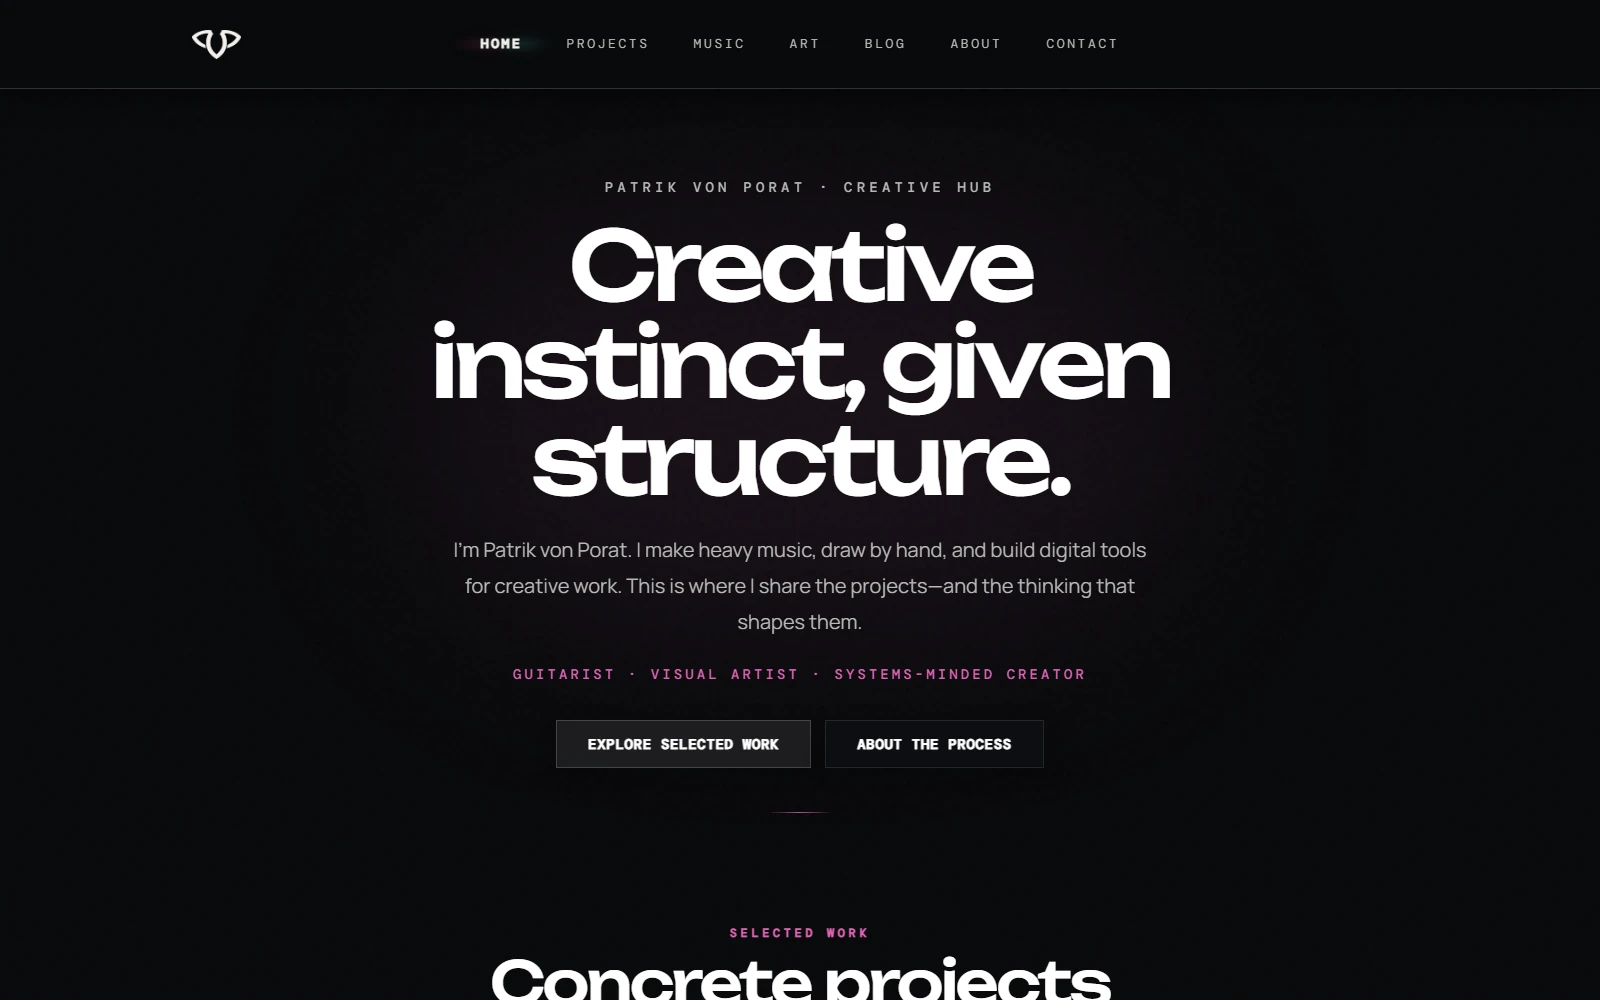
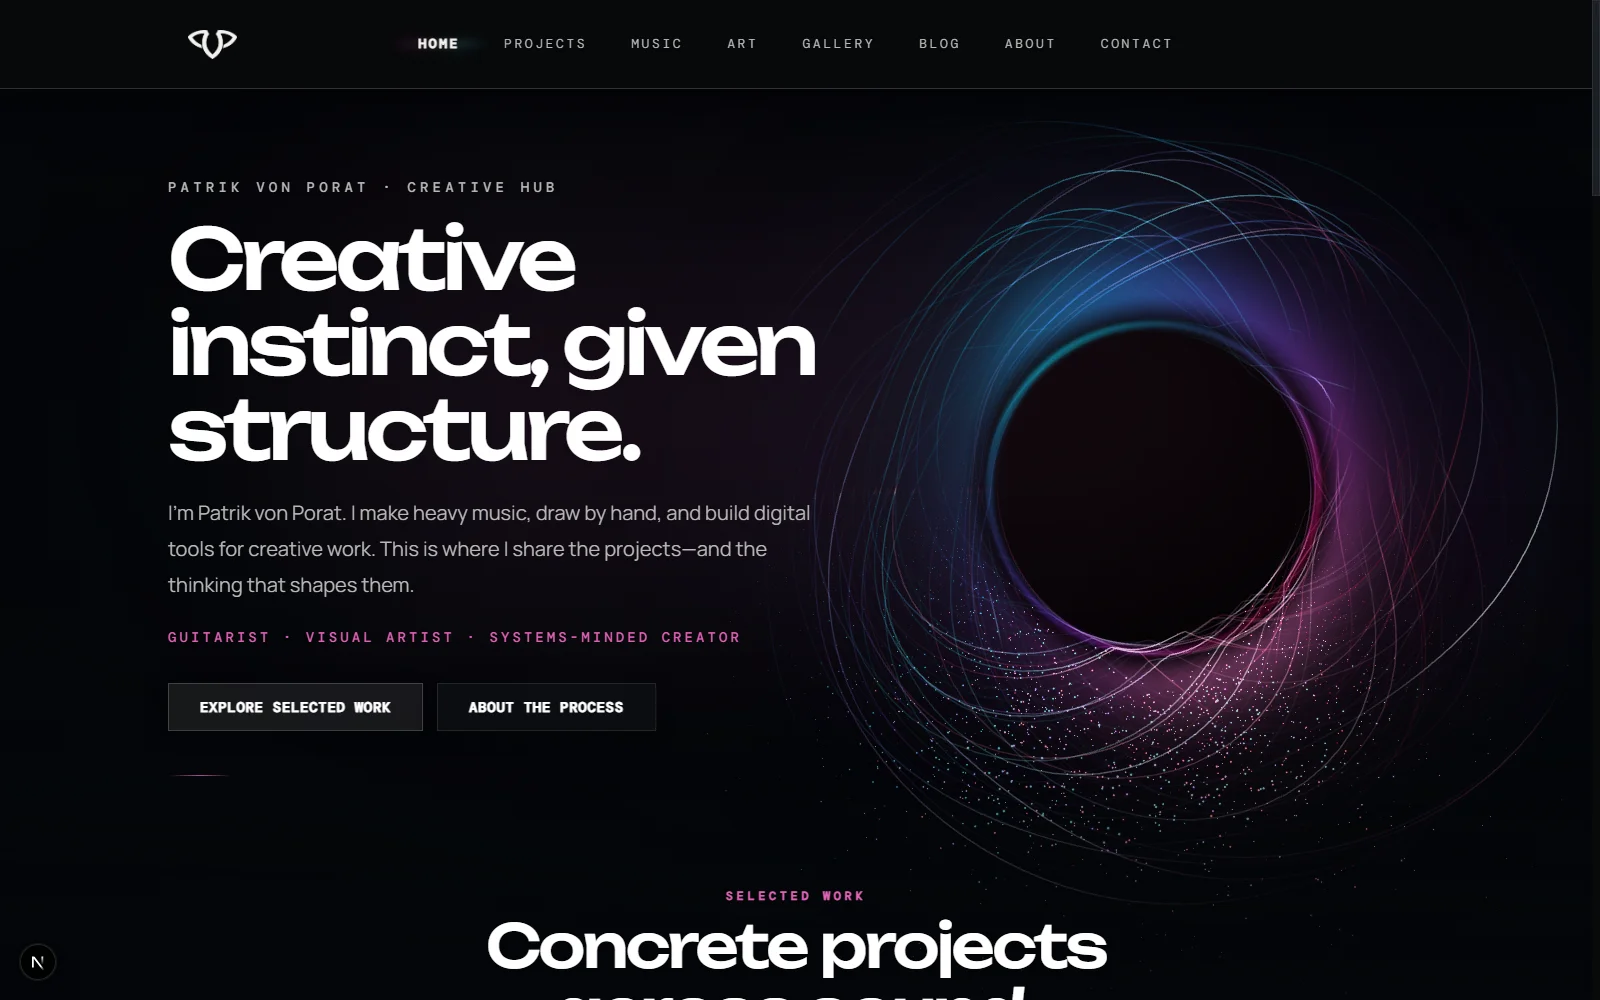
Update Projects page: refresh DMAIC Companion & vonporat.com showcases, streamline broader practice cards

diff --git a/src/app/(app)/projects/page.js b/src/app/(app)/projects/page.js
@@ -75,29 +75,6 @@ export default function Projects() {
 
   const supportingProjects = [
     {
-      id: 'visual-practice',
-      title: 'Visual Practice',
-      category: 'DRAWING · TATTOO PRACTICE · PHYSICAL CRAFT',
-      status: 'ONGOING PRACTICE',
-      statusType: 'active',
-      intro: 'An ongoing exploration of observation, material and controlled technique across traditional and physical forms.',
-      scopeLabel: 'Scope',
-      scopeItems: [
-        'Graphite and charcoal studies',
-        'Tattoo linework and shading practice',
-        'Miniatures and physical models',
-        'Selected digital experimentation'
-      ],
-      role: null,
-      evidence: 'Studies, experiments and finished work documenting continued development across different materials.',
-      cta: 'View Visual Practice',
-      link: '/art',
-      image: '/images/art/drawings/eye-study.webp',
-      imageAlt: 'Visual practice traditional graphite drawing study',
-      accent: 'purple',
-      isExternal: false
-    },
-    {
       id: 'dmaic-companion',
       title: 'DMAIC Companion',
       category: 'WEB · IMPROVEMENT TOOLS',
@@ -118,7 +95,7 @@ export default function Projects() {
       evidence: '37 tools built across DMAIC phases and Apollo RCA. Runs 100% in the browser with offline localStorage autosave, .dmaic.json project files, and 387 automated tests.',
       cta: 'View Case Study',
       link: '/projects/dmaic-companion',
-      image: '/images/projects/proof/dmaic-companion-featured-1600x900.png',
+      image: '/images/projects/proof/proof-dmaic-companion-clean.webp',
       imageAlt: 'DMAIC Companion – home screen with the three ways in and the D-M-A-I-C phase band',
       fallbackBadge: 'Improvement Tool',
       fallbackDesc: 'Local-first guided web app for Lean Six Sigma projects and Apollo root cause analysis.',
@@ -129,7 +106,7 @@ export default function Projects() {
       id: 'vonporat',
       title: 'vonporat.com',
       category: 'CREATIVE HUB · EDITORIAL SYSTEM · WEB',
-      status: 'LIVE · EVOLVING',
+      status: 'LIVE',
       statusType: 'live',
       intro: 'A personal creative hub designed to connect music, visual practice, writing and systems thinking within one coherent identity.',
       role: 'Concept · Content Architecture · Design Direction · CMS Structure · Iterative Development',
@@ -144,7 +121,7 @@ export default function Projects() {
       evidence: 'A live publishing platform connecting project work, visual galleries, journal entries and structured content.',
       cta: 'View Project',
       link: 'https://vonporat.com',
-      image: '/images/projects/proof/proof-vonporat-showcase-v2.webp',
+      image: '/images/projects/proof/proof-vonporat-nexus.webp',
       imageAlt: 'vonporat.com personal creative hub platform interface preview',
       accent: 'cyan',
       isExternal: true
@@ -329,7 +306,7 @@ export default function Projects() {
         </div>
       </section>
 
-      {/* 3. Supporting Projects (Visual Practice, vonporat.com) */}
+      {/* 3. Supporting Projects (DMAIC Companion, vonporat.com) */}
       <section className="flex flex-col gap-6 pt-4 border-t border-white/5">
         <div className="flex items-center justify-between border-b border-white/5 pb-2.5">
           <div className="flex items-center gap-2.5">
@@ -343,7 +320,7 @@ export default function Projects() {
           </span>
         </div>
 
-        <div className="grid grid-cols-1 md:grid-cols-2 lg:grid-cols-3 gap-6 md:gap-7">
+        <div className="grid grid-cols-1 lg:grid-cols-2 gap-6 md:gap-7">
           {supportingProjects.map((proj) => {
             const statusBadge = getStatusBadge(proj.status, proj.statusType);
             const isPurple = proj.accent === 'purple';
